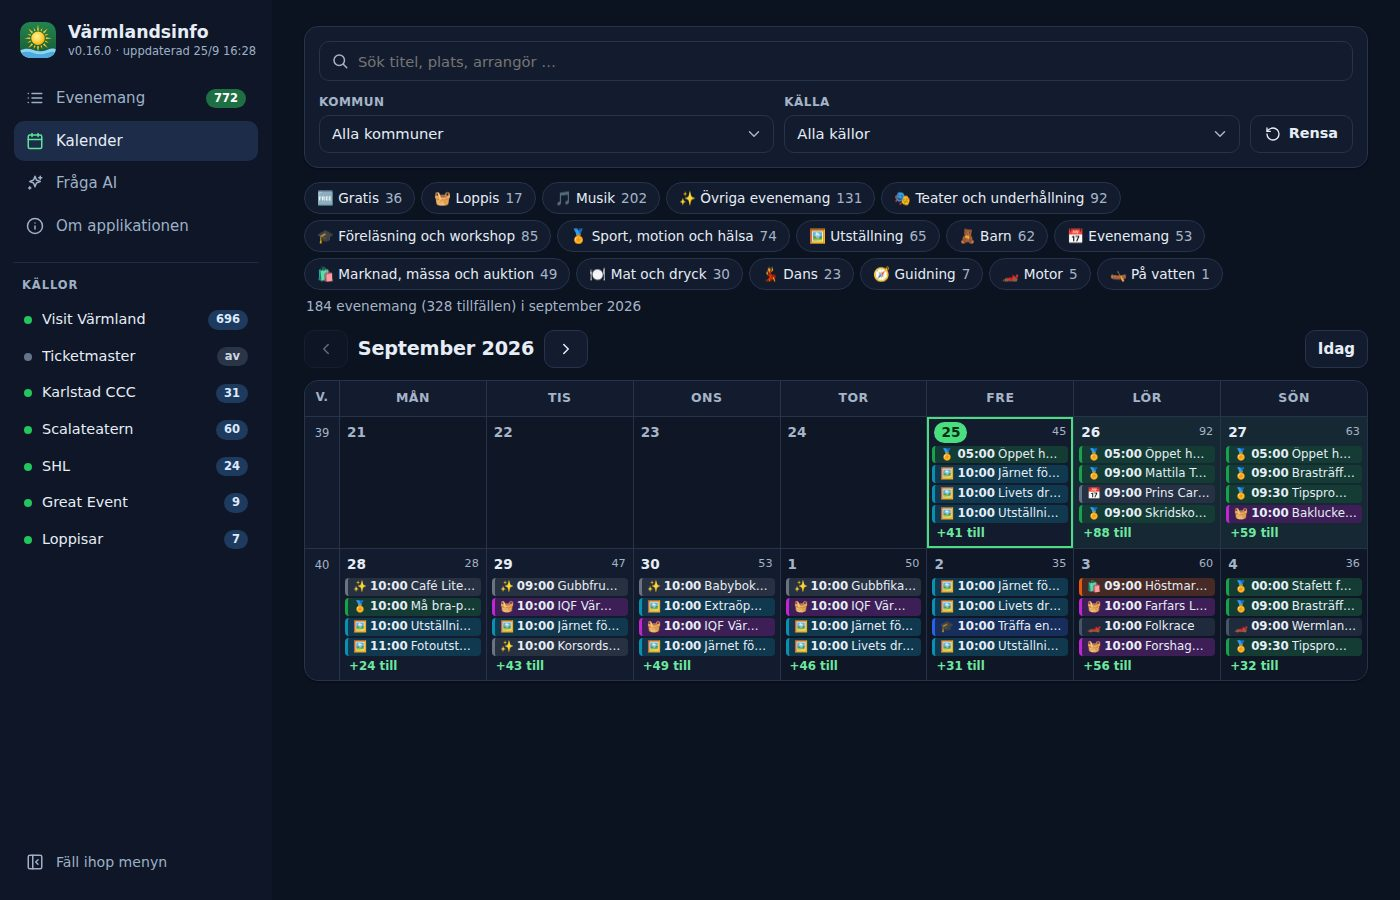
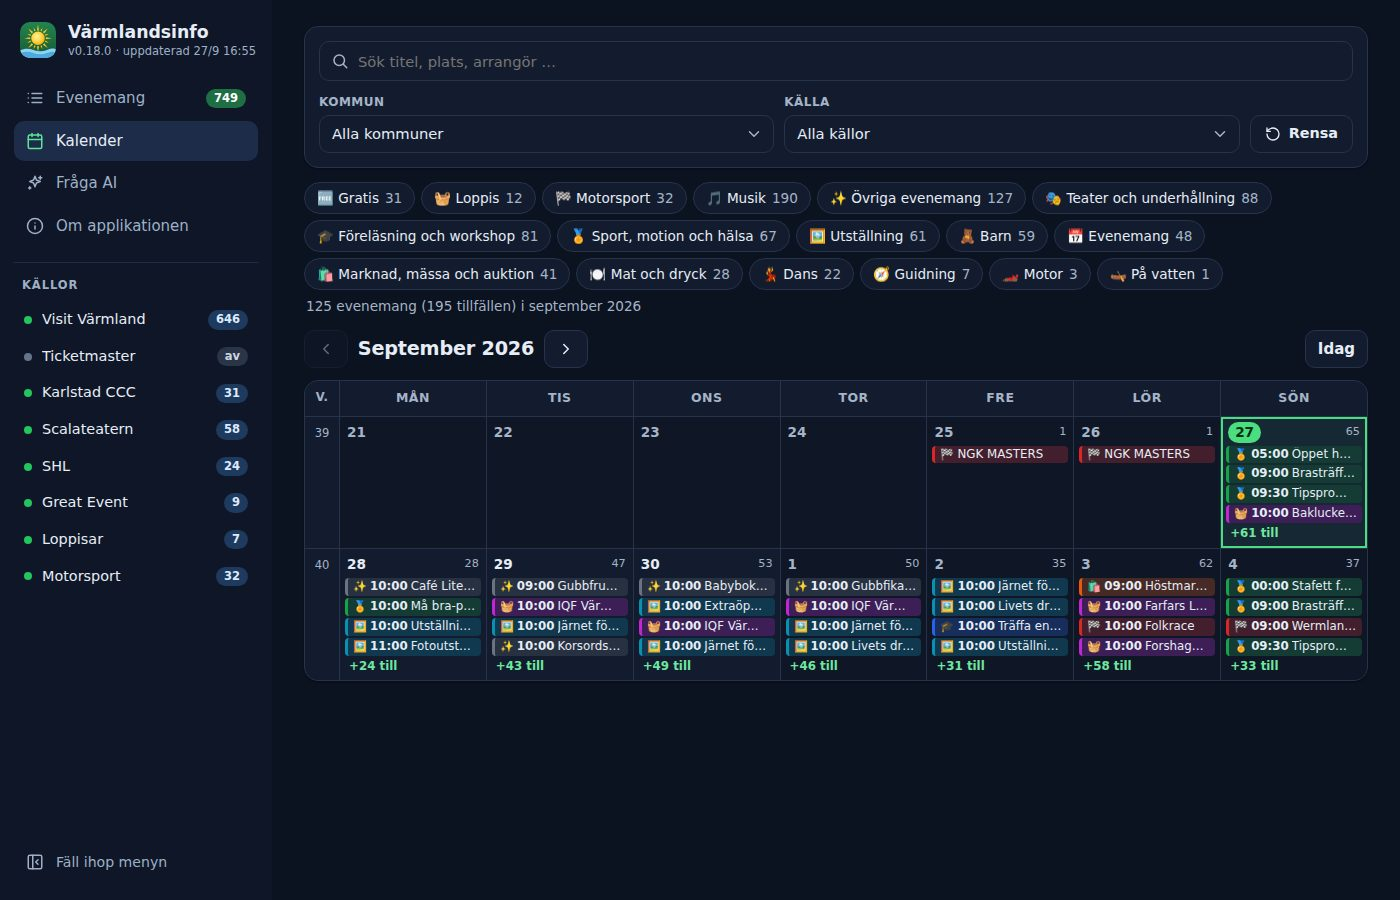
README: skärmdumpar med Motorsport, och projektminnet i CLAUDE.md (#50)
- Nya skärmdumpar (lista, kalender, Fråga AI, mobil) och en ny bild med
  filtret Motorsport, tagna med tools/readme-screenshots.mjs.
- CLAUDE.md har avsnitten Läget (v0.18.0), Beslut och önskemål från
  användaren, och Lärdomar i utvecklingsmiljön, så att arbetet kan
  fortsätta i ett nytt kontextfönster.

Closes #50

Claude-Session: https://claude.ai/code/session_01C6uz5yNv61puchmzcW9gu3

diff --git a/CLAUDE.md b/CLAUDE.md
@@ -1,7 +1,9 @@
 # Värmlandsinfo – instruktioner för Claude
 
-Dockerbaserad webbapp (FastAPI + statisk HTML/JS) som visar evenemang i Värmland från Visit Värmlands API,
-med AI-chatt via Ollama. Användaren kommunicerar på svenska: skriv issues, PR:er, commits och svar på svenska.
+Dockerbaserad webbapp (FastAPI + statisk HTML/JS) som visar evenemang i Värmland från flera källor (Visit Värmland
+m.fl.), med AI-chatt via Ollama. Användaren kommunicerar på svenska: skriv issues, PR:er, commits och svar på svenska.
+Detta dokument är också projektets minne mellan sessioner: håll avsnitten **Läget**, **Beslut** och **Lärdomar**
+aktuella när något ändras.
 
 ## Arbetsflöde (ska alltid följas)
 
@@ -48,9 +50,9 @@ med AI-chatt via Ollama. Användaren kommunicerar på svenska: skriv issues, PR:
   ska rapportera "Inga kontrastproblem". Granska även skärmdumparna i `tools/screenshots/`.
 - **Checka aldrig in privata adresser** (t.ex. användarens Ollama-IP) eller `.env`.
 - Var snäll mot källorna (Visit Värmland: 60 anrop/minut; Ticketmaster: 5/sekund och 5000/dygn;
-  CCC, Scalateatern, Great Event, Karlstad Loppis, loppisar.com, SBF:s LoTS och Svemo TA är vanliga webbplatser.
-  Svemo TA har 13 000+ historiska tävlingar: bläddra aldrig igenom hela listan, bara sista sidorna bakåt). Hämta inte oftare än nödvändigt, varken i appen
-  eller under utveckling.
+  CCC, Scalateatern, Great Event, Karlstad Loppis, loppisar.com, SBF:s LoTS och Svemo TA är vanliga webbplatser).
+  Svemo TA har 13 000+ historiska tävlingar: bläddra aldrig igenom hela listan, bara sista sidorna bakåt.
+  Hämta inte oftare än nödvändigt, varken i appen eller under utveckling. Testa mot sparad data (se Lärdomar).
 - Nycklar (t.ex. `TICKETMASTER_API_KEY`) får aldrig loggas eller synas i felmeddelanden. httpx-loggningen
   är därför avstängd.
 
@@ -69,3 +71,66 @@ med AI-chatt via Ollama. Användaren kommunicerar på svenska: skriv issues, PR:
 - `app/static/`: gränssnittet. `app.js` sköter navigering (`#/lista`, `#/kalender`, `#/fraga`, `#/om`), filter
   och lista, `calendar.js` kalendern, `chat.js` Fråga AI, `about.js` Om applikationen och `icons.js`
   SVG-ikonerna. Nya funktioner ska beskrivas på sidan Om applikationen (`about.js`)
+
+## Läget (v0.18.0, 2026-09-27)
+
+- **Källor** (`app/sources/`, prioritetsordning): Visit Värmland (API), Ticketmaster (API, kräver nyckel, av som
+  standard), Karlstad CCC, Scalateatern, SHL (Färjestads hemmamatcher), Great Event, Karlstad Loppis + loppisar.com
+  (grupp **Loppisar**), SBF/LoTS + Svemo TA (grupp **Motorsport**, `sources/motorsport.py`). En källas `group` gör att
+  flera källor visas som en i gränssnittet (menyn, filtret Källa, korten, sidan Om), medan hämtning, lagring och status
+  i `/api/health` är per källa.
+- **Motorsport:** publika tävlingar och prova på-dagar i Värmland + Karlskoga. Läget avgörs av banans namn (`PLACES`
+  i `motorsport.py`) och i andra hand arrangörens ort. Nya banor läggs till i `PLACES`. LoTS och Svemo är ASP.NET/Telerik:
+  sidbyte med postback (`__VIEWSTATE` + `__EVENTTARGET` från knappen med title "Next/Previous/Last Page").
+- **Kategorier** (`categories.py`, regler i `common.finalize`): `split_loppis` bryter ut *Loppis* ur Visit Värmlands
+  marknadskategori (som heter "Marknad, mässa och auktion"), och `split_motorsport` ger tävlingar *Motorsport*, medan
+  *Motor* bara gäller motorträffar och fordonsutställningar. Egna filter står först: Gratis, Loppis, Motorsport.
+- **Sammanslagning** (`merge.py`): samma dag (varje dag i perioder ≤ 7 dagar), samma kommun och liknande titlar, eller
+  `same_race` för motorsport med olika titlar. "loppis" och "konsert" m.fl. räknas inte som gemensamma ord.
+- **Fråga AI** (`chat.py`):
+  1. `classify`: enkla sökfrågor besvaras direkt av `search_answer`, utan AI.
+  2. `scope_check`: spärr före AI och webb. Frågan stoppas om den nämner ett namn med versal som inte finns bland
+     appens evenemang, platser, arrangörer eller kommuner, eller om den inte rör evenemang. Webben söks bara när
+     frågan nämner ett evenemang, en plats eller en arrangör i appen.
+  3. Kön till Ollama (högst 2 samtidigt), sessioner per flik och sparade svar (`chat_cache.py`).
+  4. Valfri SearXNG (`websearch.py`, `SEARXNG_URL`).
+- **Städning** (`events.purge_old`, `main.cleanup`): efter morgonkörningen (05:00) och vid start tas data från före
+  morgonkörningen bort, liksom avstängda källors filer, inaktuella AI-svar och gårdagens chattsamtal. En källa som
+  fallerar på morgonen får två nya försök (5 min) innan dess data tas bort.
+- **Dokumentation:** README har skärmdumpar i `docs/screenshots/` som skapas med `tools/readme-screenshots.mjs`
+  (lista, kalender, Fråga AI, Motorsport, mobil). Ta om dem när gränssnittet ändras synligt.
+
+## Beslut och önskemål från användaren (gäller framåt)
+
+- Release bara när användaren ber om det. Rena dokumentationsändringar (t.ex. README) committas utan release.
+- Fråga AI: bara frågor om evenemang som finns i appen. Allt annat stoppas **innan** AI eller webb anropas
+  (exempel: Arvikamarten ok, Liseberg nej). Nya källor och kategorier ska också fungera i Fråga AI:
+  `CATEGORY_WORDS`, `EVENT_WORDS`, `QUICK` och ord i spärren.
+- Integritet: texterna i appen ska vara sanna om vart frågor skickas (lokal Ollama, och SearXNG när den är på).
+- Ingen gammal data efter morgonkörningen.
+- Närliggande källor ska visas som **en** källa i gränssnittet när användaren ber om det (Loppisar, Motorsport).
+- Motorsport: både bil- (SBF) och MC-sport (Svemo), publika tävlingar och prova på-dagar, Värmland + Karlskoga.
+- Användaren vill att efterforskning görs ordentligt och att frågor ställs när vägval är oklara.
+
+## Lärdomar i utvecklingsmiljön (Claudes molnmiljö)
+
+- **Venv** för tester och körning finns ofta i scratchpaden (`<scratchpad>/venv`). Annars: `python -m venv` och
+  `pip install -r requirements-dev.txt`.
+- **Testa mot sparad data i stället för att hämta om:** kopiera en datakatalog och sätt `updated` i
+  `<källa>.json` till nu för källor som inte ska hämtas. Då hämtas bara nya eller ändrade källor vid start.
+- **Fejkade tjänster:** en liten FastAPI-fil räcker som fejk-Ollama (`/api/tags`, `/api/chat` som strömmar NDJSON)
+  och fejk-SearXNG (`/search` med JSON).
+- **Stoppa processer:** `pkill -f "[u]vicorn main:app"` i ett **eget** Bash-anrop. Står mönstret i samma
+  kommandorad som något annat avslutas det egna skalet (exit 144). `pkill` träffar inte Python-skript som körs via
+  heredoc (`python - <<EOF`), eftersom URL:en inte står på kommandoraden. Starta aldrig långa hämtningar i bakgrunden
+  utan en säker stoppmekanism (`timeout`).
+- **Webbläsarprov:** Playwright finns globalt: `NODE_PATH=$(npm root -g) node skript.mjs` (i ESM via
+  `createRequire`). Kontrastkontrollen: `NODE_PATH=$(npm root -g) node tools/contrast-check.mjs`.
+- **Skärmdumpar med riktiga bilder:** externa bilder nås bara via miljöns proxy, och Playwright skickar då även
+  localhost genom proxyn. Kör appen med `--host 0.0.0.0` och
+  `SCREENSHOT_PROXY=$HTTPS_PROXY node tools/readme-screenshots.mjs http://$(hostname -I | awk '{print $1}'):8080`.
+  Kör om vid varningen "alla bilder laddades inte" och granska bilderna innan de checkas in.
+- **CI-status** utan `gh`: `curl -s "https://api.github.com/repos/tubalainen/varmlandsinfo/actions/runs?head_sha=<sha>"`
+  i en `until`-loop tills CI, Publicera Docker-image och Release är klara.
+- Uvicorn läser `index.html` vid start: starta om servern efter ändringar i HTML eller Python.
+

diff --git a/README.md b/README.md
@@ -8,13 +8,15 @@ med en **AI-chatt** (via Ollama) där du kan ställa frågor om evenemangen.
 Evenemangen hämtas från flera källor och slås ihop. Samma evenemang från flera källor visas en gång,
 med länkar till alla källor.
 
-![Evenemangslistan med filter, kategorier (bland annat Gratis och Loppis) och källornas status](docs/screenshots/lista.jpg)
+![Evenemangslistan med filter, kategorier (bland annat Gratis, Loppis och Motorsport) och källornas status](docs/screenshots/lista.jpg)
 
 | Kalendern (mörkt läge) | Fråga AI |
 |------------------------|----------|
 | ![Kalendern med en vecka per rad och evenemangen färgkodade per typ](docs/screenshots/kalender.jpg) | ![Fråga AI besvarar en sökfråga direkt med en lista i datumordning](docs/screenshots/fraga-ai.jpg) |
 
-<p align="center"><img src="docs/screenshots/mobil.jpg" alt="Evenemangslistan på mobil i mörkt läge" width="260"></p>
+| Filtret Motorsport | Mobil (mörkt läge) |
+|--------------------|--------------------|
+| ![Filtret Motorsport visar folkrace, rally och enduro från SBF och Svemo](docs/screenshots/motorsport.jpg) | <img src="docs/screenshots/mobil.jpg" alt="Evenemangslistan på mobil i mörkt läge" width="260"> |
 
 | Källa | Hur | Vad |
 |-------|-----|-----|

diff --git a/CHANGELOG.md b/CHANGELOG.md
@@ -6,6 +6,10 @@ Formatet följer [Keep a Changelog](https://keepachangelog.com/sv/1.1.0/) och pr
 
 ## [Unreleased]
 
+### Dokumentation
+- Nya skärmdumpar i README med källan och filtret Motorsport, och CLAUDE.md beskriver läget, användarens beslut och
+  lärdomar från utvecklingsmiljön (#50)
+
 ## [0.18.0] - 2026-09-27
 
 ### Tillagt
